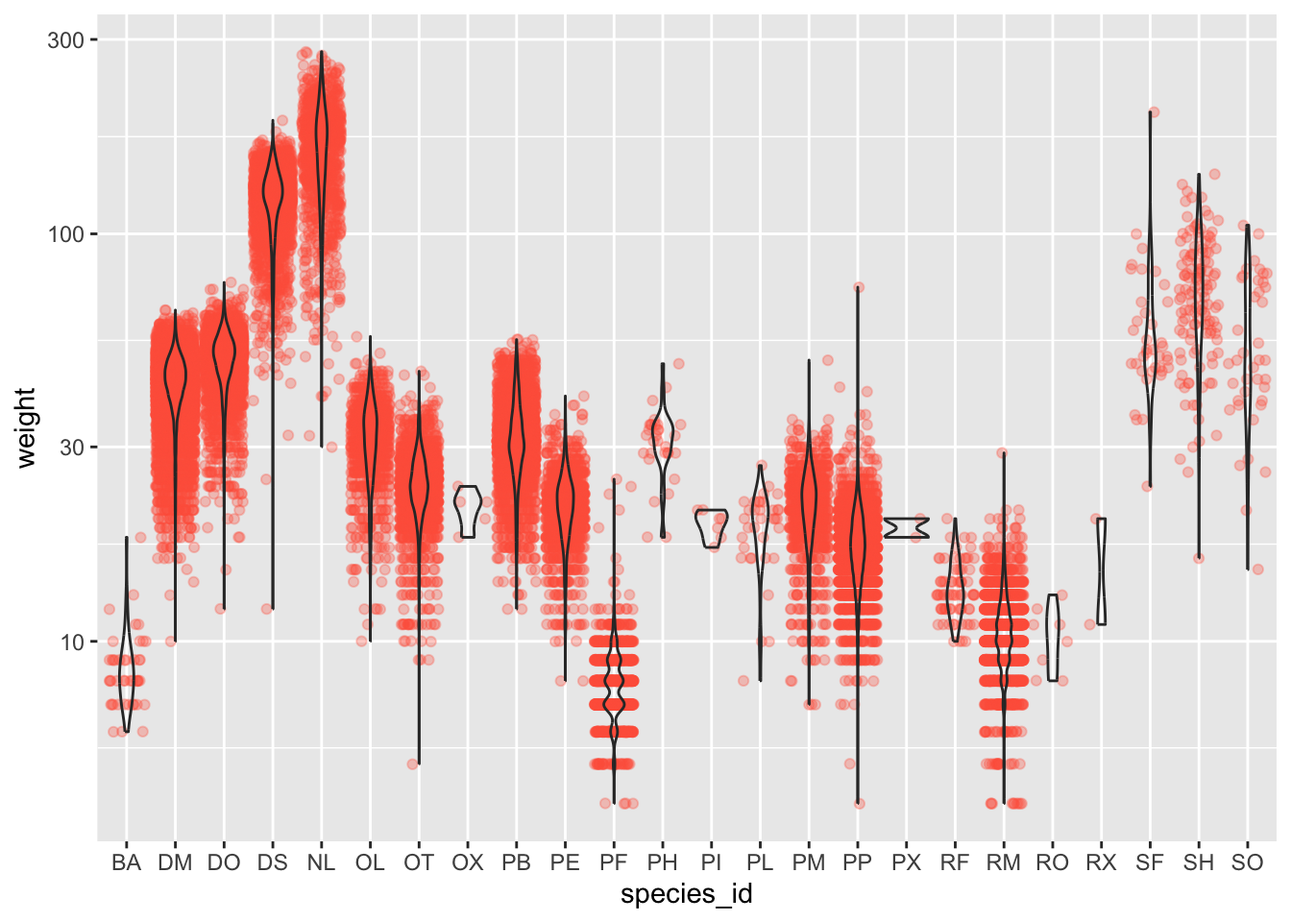
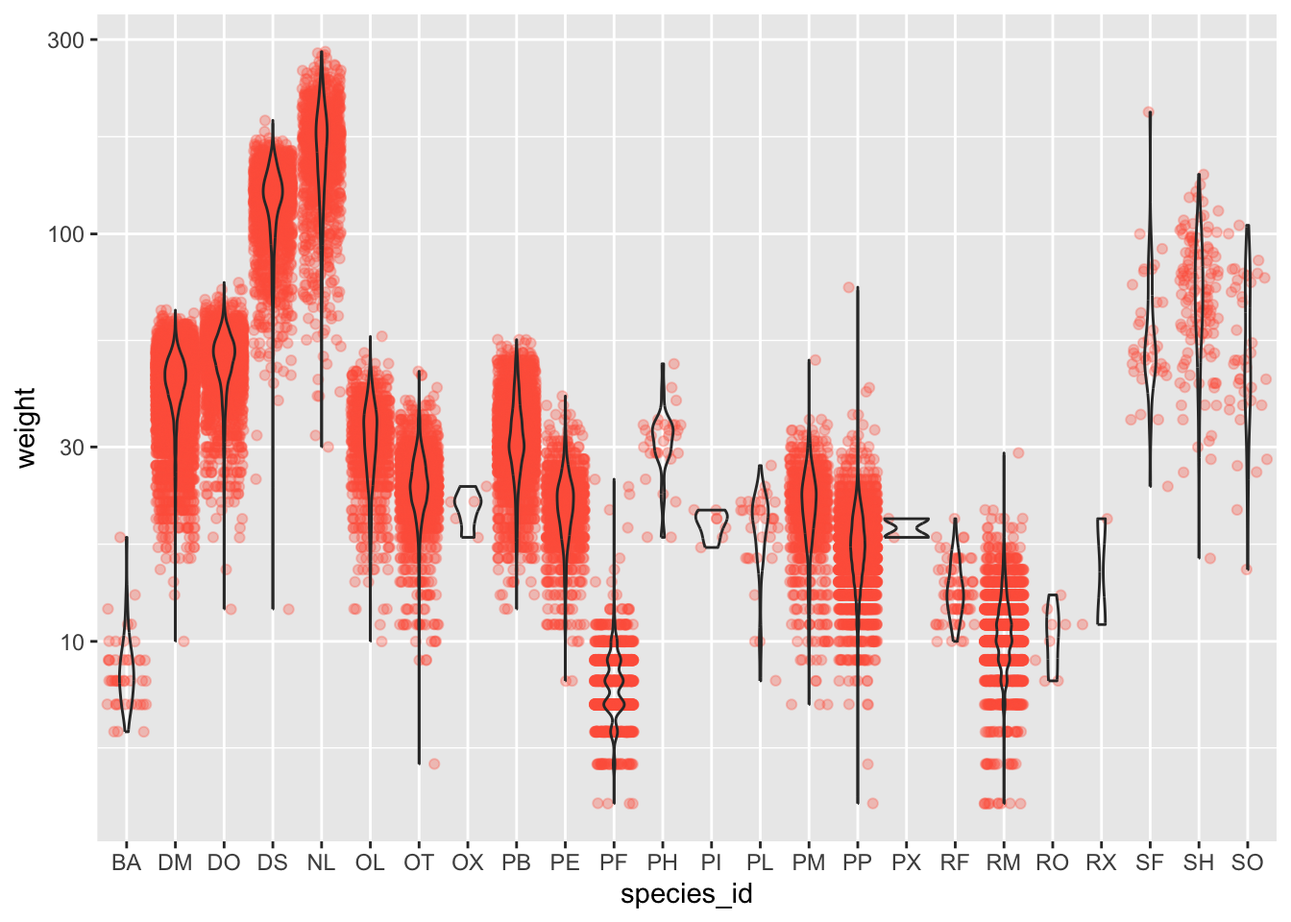
tyler wk7 videos

diff --git a/docs/lesson_wk07_data_visualization.html b/docs/lesson_wk07_data_visualization.html
@@ -475,10 +475,13 @@ ggplot.</li>
 <li><a
 href="https://video.ucdavis.edu/media/Week+7%3A+Data+Visualization+Part+1a/1_m55wx7pr">Data
 visualization Part 1a</a></li>
-<li>Data visualization Part 1b (coming soon)</li>
+<li><a
+href="https://video.ucdavis.edu/media/Week7_TimeSeries_and_Faceting/1_mcgh2gkw/390286133">Data
+visualization Part 1b</a></li>
 <li>Data visualization Part 2a (coming soon)</li>
-<li>Data visualization Part 2b (coming soon)</li>
-<li>Data visualization Part 2c (coming soon)</li>
+<li><a
+href="https://video.ucdavis.edu/media/Week7_Saving_and_NonVizViz/1_2fzv6mle/390286133">Data
+visualization Part 2b</a></li>
 <li><a
 href="https://canvas.ucdavis.edu/courses/1019595/assignments/1510681">Video
 Discussion</a></li>
@@ -862,7 +865,7 @@ surveys_complete %&gt;%
 ## 23 shown as vivid purplish red colour and 
 ## 24 shown as vivid purplish red colour.
 ## It has 2 layers.
-## Layer 1 is a set of 2514 big solid circle points of which about 39% can be seen.
+## Layer 1 is a set of 2514 big solid circle points of which about 40% can be seen.
 ## These are offset by added random noise, and sorted by as.factor(plot_id).
 ## Layer 1 has alpha set to 0.3.
 ## Layer 2 is a boxplot comprised of 2 vertical boxes with whiskers.
@@ -1913,8 +1916,8 @@ plot.iris &lt;- ggplot(data=iris, aes(x=Sepal.Length, y=Petal.Length, fill=Speci
   geom_point(size=3, alpha=0.7, shape=21)
 
 plotly::ggplotly(plot.iris) #it&#39;s as simple as that! </code></pre>
-<div class="plotly html-widget html-fill-item" id="htmlwidget-67e596250b2bb8a2549f" style="width:672px;height:480px;"></div>
-<script type="application/json" data-for="htmlwidget-67e596250b2bb8a2549f">{"x":{"data":[{"x":[5.0999999999999996,4.9000000000000004,4.7000000000000002,4.5999999999999996,5,5.4000000000000004,4.5999999999999996,5,4.4000000000000004,4.9000000000000004,5.4000000000000004,4.7999999999999998,4.7999999999999998,4.2999999999999998,5.7999999999999998,5.7000000000000002,5.4000000000000004,5.0999999999999996,5.7000000000000002,5.0999999999999996,5.4000000000000004,5.0999999999999996,4.5999999999999996,5.0999999999999996,4.7999999999999998,5,5,5.2000000000000002,5.2000000000000002,4.7000000000000002,4.7999999999999998,5.4000000000000004,5.2000000000000002,5.5,4.9000000000000004,5,5.5,4.9000000000000004,4.4000000000000004,5.0999999999999996,5,4.5,4.4000000000000004,5,5.0999999999999996,4.7999999999999998,5.0999999999999996,4.5999999999999996,5.2999999999999998,5],"y":[1.3999999999999999,1.3999999999999999,1.3,1.5,1.3999999999999999,1.7,1.3999999999999999,1.5,1.3999999999999999,1.5,1.5,1.6000000000000001,1.3999999999999999,1.1000000000000001,1.2,1.5,1.3,1.3999999999999999,1.7,1.5,1.7,1.5,1,1.7,1.8999999999999999,1.6000000000000001,1.6000000000000001,1.5,1.3999999999999999,1.6000000000000001,1.6000000000000001,1.5,1.5,1.3999999999999999,1.5,1.2,1.3,1.3999999999999999,1.3,1.5,1.3,1.3,1.3,1.6000000000000001,1.8999999999999999,1.3999999999999999,1.6000000000000001,1.3999999999999999,1.5,1.3999999999999999],"text":["Sepal.Length: 5.1<br />Petal.Length: 1.4<br />Species: setosa","Sepal.Length: 4.9<br />Petal.Length: 1.4<br />Species: setosa","Sepal.Length: 4.7<br />Petal.Length: 1.3<br />Species: setosa","Sepal.Length: 4.6<br />Petal.Length: 1.5<br />Species: setosa","Sepal.Length: 5.0<br />Petal.Length: 1.4<br />Species: setosa","Sepal.Length: 5.4<br />Petal.Length: 1.7<br />Species: setosa","Sepal.Length: 4.6<br />Petal.Length: 1.4<br />Species: setosa","Sepal.Length: 5.0<br />Petal.Length: 1.5<br />Species: setosa","Sepal.Length: 4.4<br />Petal.Length: 1.4<br />Species: setosa","Sepal.Length: 4.9<br />Petal.Length: 1.5<br />Species: setosa","Sepal.Length: 5.4<br />Petal.Length: 1.5<br />Species: setosa","Sepal.Length: 4.8<br />Petal.Length: 1.6<br />Species: setosa","Sepal.Length: 4.8<br />Petal.Length: 1.4<br />Species: setosa","Sepal.Length: 4.3<br />Petal.Length: 1.1<br />Species: setosa","Sepal.Length: 5.8<br />Petal.Length: 1.2<br />Species: setosa","Sepal.Length: 5.7<br />Petal.Length: 1.5<br />Species: setosa","Sepal.Length: 5.4<br />Petal.Length: 1.3<br />Species: setosa","Sepal.Length: 5.1<br />Petal.Length: 1.4<br />Species: setosa","Sepal.Length: 5.7<br />Petal.Length: 1.7<br />Species: setosa","Sepal.Length: 5.1<br />Petal.Length: 1.5<br />Species: setosa","Sepal.Length: 5.4<br />Petal.Length: 1.7<br />Species: setosa","Sepal.Length: 5.1<br />Petal.Length: 1.5<br />Species: setosa","Sepal.Length: 4.6<br />Petal.Length: 1.0<br />Species: setosa","Sepal.Length: 5.1<br />Petal.Length: 1.7<br />Species: setosa","Sepal.Length: 4.8<br />Petal.Length: 1.9<br />Species: setosa","Sepal.Length: 5.0<br />Petal.Length: 1.6<br />Species: setosa","Sepal.Length: 5.0<br />Petal.Length: 1.6<br />Species: setosa","Sepal.Length: 5.2<br />Petal.Length: 1.5<br />Species: setosa","Sepal.Length: 5.2<br />Petal.Length: 1.4<br />Species: setosa","Sepal.Length: 4.7<br />Petal.Length: 1.6<br />Species: setosa","Sepal.Length: 4.8<br />Petal.Length: 1.6<br />Species: setosa","Sepal.Length: 5.4<br />Petal.Length: 1.5<br />Species: setosa","Sepal.Length: 5.2<br />Petal.Length: 1.5<br />Species: setosa","Sepal.Length: 5.5<br />Petal.Length: 1.4<br />Species: setosa","Sepal.Length: 4.9<br />Petal.Length: 1.5<br />Species: setosa","Sepal.Length: 5.0<br />Petal.Length: 1.2<br />Species: setosa","Sepal.Length: 5.5<br />Petal.Length: 1.3<br />Species: setosa","Sepal.Length: 4.9<br />Petal.Length: 1.4<br />Species: setosa","Sepal.Length: 4.4<br />Petal.Length: 1.3<br />Species: setosa","Sepal.Length: 5.1<br />Petal.Length: 1.5<br />Species: setosa","Sepal.Length: 5.0<br />Petal.Length: 1.3<br />Species: setosa","Sepal.Length: 4.5<br />Petal.Length: 1.3<br />Species: setosa","Sepal.Length: 4.4<br />Petal.Length: 1.3<br />Species: setosa","Sepal.Length: 5.0<br />Petal.Length: 1.6<br />Species: setosa","Sepal.Length: 5.1<br />Petal.Length: 1.9<br />Species: setosa","Sepal.Length: 4.8<br />Petal.Length: 1.4<br />Species: setosa","Sepal.Length: 5.1<br />Petal.Length: 1.6<br />Species: setosa","Sepal.Length: 4.6<br />Petal.Length: 1.4<br />Species: setosa","Sepal.Length: 5.3<br />Petal.Length: 1.5<br />Species: setosa","Sepal.Length: 5.0<br />Petal.Length: 1.4<br />Species: setosa"],"type":"scatter","mode":"markers","marker":{"autocolorscale":false,"color":"rgba(248,118,109,1)","opacity":0.69999999999999996,"size":11.338582677165356,"symbol":"circle","line":{"width":1.8897637795275593,"color":"rgba(0,0,0,1)"}},"hoveron":"points","name":"setosa","legendgroup":"setosa","showlegend":true,"xaxis":"x","yaxis":"y","hoverinfo":"text","frame":null},{"x":[7,6.4000000000000004,6.9000000000000004,5.5,6.5,5.7000000000000002,6.2999999999999998,4.9000000000000004,6.5999999999999996,5.2000000000000002,5,5.9000000000000004,6,6.0999999999999996,5.5999999999999996,6.7000000000000002,5.5999999999999996,5.7999999999999998,6.2000000000000002,5.5999999999999996,5.9000000000000004,6.0999999999999996,6.2999999999999998,6.0999999999999996,6.4000000000000004,6.5999999999999996,6.7999999999999998,6.7000000000000002,6,5.7000000000000002,5.5,5.5,5.7999999999999998,6,5.4000000000000004,6,6.7000000000000002,6.2999999999999998,5.5999999999999996,5.5,5.5,6.0999999999999996,5.7999999999999998,5,5.5999999999999996,5.7000000000000002,5.7000000000000002,6.2000000000000002,5.0999999999999996,5.7000000000000002],"y":[4.7000000000000002,4.5,4.9000000000000004,4,4.5999999999999996,4.5,4.7000000000000002,3.2999999999999998,4.5999999999999996,3.8999999999999999,3.5,4.2000000000000002,4,4.7000000000000002,3.6000000000000001,4.4000000000000004,4.5,4.0999999999999996,4.5,3.8999999999999999,4.7999999999999998,4,4.9000000000000004,4.7000000000000002,4.2999999999999998,4.4000000000000004,4.7999999999999998,5,4.5,3.5,3.7999999999999998,3.7000000000000002,3.8999999999999999,5.0999999999999996,4.5,4.5,4.7000000000000002,4.4000000000000004,4.0999999999999996,4,4.4000000000000004,4.5999999999999996,4,3.2999999999999998,4.2000000000000002,4.2000000000000002,4.2000000000000002,4.2999999999999998,3,4.0999999999999996],"text":["Sepal.Length: 7.0<br />Petal.Length: 4.7<br />Species: versicolor","Sepal.Length: 6.4<br />Petal.Length: 4.5<br />Species: versicolor","Sepal.Length: 6.9<br />Petal.Length: 4.9<br />Species: versicolor","Sepal.Length: 5.5<br />Petal.Length: 4.0<br />Species: versicolor","Sepal.Length: 6.5<br />Petal.Length: 4.6<br />Species: versicolor","Sepal.Length: 5.7<br />Petal.Length: 4.5<br />Species: versicolor","Sepal.Length: 6.3<br />Petal.Length: 4.7<br />Species: versicolor","Sepal.Length: 4.9<br />Petal.Length: 3.3<br />Species: versicolor","Sepal.Length: 6.6<br />Petal.Length: 4.6<br />Species: versicolor","Sepal.Length: 5.2<br />Petal.Length: 3.9<br />Species: versicolor","Sepal.Length: 5.0<br />Petal.Length: 3.5<br />Species: versicolor","Sepal.Length: 5.9<br />Petal.Length: 4.2<br />Species: versicolor","Sepal.Length: 6.0<br />Petal.Length: 4.0<br />Species: versicolor","Sepal.Length: 6.1<br />Petal.Length: 4.7<br />Species: versicolor","Sepal.Length: 5.6<br />Petal.Length: 3.6<br />Species: versicolor","Sepal.Length: 6.7<br />Petal.Length: 4.4<br />Species: versicolor","Sepal.Length: 5.6<br />Petal.Length: 4.5<br />Species: versicolor","Sepal.Length: 5.8<br />Petal.Length: 4.1<br />Species: versicolor","Sepal.Length: 6.2<br />Petal.Length: 4.5<br />Species: versicolor","Sepal.Length: 5.6<br />Petal.Length: 3.9<br />Species: versicolor","Sepal.Length: 5.9<br />Petal.Length: 4.8<br />Species: versicolor","Sepal.Length: 6.1<br />Petal.Length: 4.0<br />Species: versicolor","Sepal.Length: 6.3<br />Petal.Length: 4.9<br />Species: versicolor","Sepal.Length: 6.1<br />Petal.Length: 4.7<br />Species: versicolor","Sepal.Length: 6.4<br />Petal.Length: 4.3<br />Species: versicolor","Sepal.Length: 6.6<br />Petal.Length: 4.4<br />Species: versicolor","Sepal.Length: 6.8<br />Petal.Length: 4.8<br />Species: versicolor","Sepal.Length: 6.7<br />Petal.Length: 5.0<br />Species: versicolor","Sepal.Length: 6.0<br />Petal.Length: 4.5<br />Species: versicolor","Sepal.Length: 5.7<br />Petal.Length: 3.5<br />Species: versicolor","Sepal.Length: 5.5<br />Petal.Length: 3.8<br />Species: versicolor","Sepal.Length: 5.5<br />Petal.Length: 3.7<br />Species: versicolor","Sepal.Length: 5.8<br />Petal.Length: 3.9<br />Species: versicolor","Sepal.Length: 6.0<br />Petal.Length: 5.1<br />Species: versicolor","Sepal.Length: 5.4<br />Petal.Length: 4.5<br />Species: versicolor","Sepal.Length: 6.0<br />Petal.Length: 4.5<br />Species: versicolor","Sepal.Length: 6.7<br />Petal.Length: 4.7<br />Species: versicolor","Sepal.Length: 6.3<br />Petal.Length: 4.4<br />Species: versicolor","Sepal.Length: 5.6<br />Petal.Length: 4.1<br />Species: versicolor","Sepal.Length: 5.5<br />Petal.Length: 4.0<br />Species: versicolor","Sepal.Length: 5.5<br />Petal.Length: 4.4<br />Species: versicolor","Sepal.Length: 6.1<br />Petal.Length: 4.6<br />Species: versicolor","Sepal.Length: 5.8<br />Petal.Length: 4.0<br />Species: versicolor","Sepal.Length: 5.0<br />Petal.Length: 3.3<br />Species: versicolor","Sepal.Length: 5.6<br />Petal.Length: 4.2<br />Species: versicolor","Sepal.Length: 5.7<br />Petal.Length: 4.2<br />Species: versicolor","Sepal.Length: 5.7<br />Petal.Length: 4.2<br />Species: versicolor","Sepal.Length: 6.2<br />Petal.Length: 4.3<br />Species: versicolor","Sepal.Length: 5.1<br />Petal.Length: 3.0<br />Species: versicolor","Sepal.Length: 5.7<br />Petal.Length: 4.1<br />Species: versicolor"],"type":"scatter","mode":"markers","marker":{"autocolorscale":false,"color":"rgba(0,186,56,1)","opacity":0.69999999999999996,"size":11.338582677165356,"symbol":"circle","line":{"width":1.8897637795275593,"color":"rgba(0,0,0,1)"}},"hoveron":"points","name":"versicolor","legendgroup":"versicolor","showlegend":true,"xaxis":"x","yaxis":"y","hoverinfo":"text","frame":null},{"x":[6.2999999999999998,5.7999999999999998,7.0999999999999996,6.2999999999999998,6.5,7.5999999999999996,4.9000000000000004,7.2999999999999998,6.7000000000000002,7.2000000000000002,6.5,6.4000000000000004,6.7999999999999998,5.7000000000000002,5.7999999999999998,6.4000000000000004,6.5,7.7000000000000002,7.7000000000000002,6,6.9000000000000004,5.5999999999999996,7.7000000000000002,6.2999999999999998,6.7000000000000002,7.2000000000000002,6.2000000000000002,6.0999999999999996,6.4000000000000004,7.2000000000000002,7.4000000000000004,7.9000000000000004,6.4000000000000004,6.2999999999999998,6.0999999999999996,7.7000000000000002,6.2999999999999998,6.4000000000000004,6,6.9000000000000004,6.7000000000000002,6.9000000000000004,5.7999999999999998,6.7999999999999998,6.7000000000000002,6.7000000000000002,6.2999999999999998,6.5,6.2000000000000002,5.9000000000000004],"y":[6,5.0999999999999996,5.9000000000000004,5.5999999999999996,5.7999999999999998,6.5999999999999996,4.5,6.2999999999999998,5.7999999999999998,6.0999999999999996,5.0999999999999996,5.2999999999999998,5.5,5,5.0999999999999996,5.2999999999999998,5.5,6.7000000000000002,6.9000000000000004,5,5.7000000000000002,4.9000000000000004,6.7000000000000002,4.9000000000000004,5.7000000000000002,6,4.7999999999999998,4.9000000000000004,5.5999999999999996,5.7999999999999998,6.0999999999999996,6.4000000000000004,5.5999999999999996,5.0999999999999996,5.5999999999999996,6.0999999999999996,5.5999999999999996,5.5,4.7999999999999998,5.4000000000000004,5.5999999999999996,5.0999999999999996,5.0999999999999996,5.9000000000000004,5.7000000000000002,5.2000000000000002,5,5.2000000000000002,5.4000000000000004,5.0999999999999996],"text":["Sepal.Length: 6.3<br />Petal.Length: 6.0<br />Species: virginica","Sepal.Length: 5.8<br />Petal.Length: 5.1<br />Species: virginica","Sepal.Length: 7.1<br />Petal.Length: 5.9<br />Species: virginica","Sepal.Length: 6.3<br />Petal.Length: 5.6<br />Species: virginica","Sepal.Length: 6.5<br />Petal.Length: 5.8<br />Species: virginica","Sepal.Length: 7.6<br />Petal.Length: 6.6<br />Species: virginica","Sepal.Length: 4.9<br />Petal.Length: 4.5<br />Species: virginica","Sepal.Length: 7.3<br />Petal.Length: 6.3<br />Species: virginica","Sepal.Length: 6.7<br />Petal.Length: 5.8<br />Species: virginica","Sepal.Length: 7.2<br />Petal.Length: 6.1<br />Species: virginica","Sepal.Length: 6.5<br />Petal.Length: 5.1<br />Species: virginica","Sepal.Length: 6.4<br />Petal.Length: 5.3<br />Species: virginica","Sepal.Length: 6.8<br />Petal.Length: 5.5<br />Species: virginica","Sepal.Length: 5.7<br />Petal.Length: 5.0<br />Species: virginica","Sepal.Length: 5.8<br />Petal.Length: 5.1<br />Species: virginica","Sepal.Length: 6.4<br />Petal.Length: 5.3<br />Species: virginica","Sepal.Length: 6.5<br />Petal.Length: 5.5<br />Species: virginica","Sepal.Length: 7.7<br />Petal.Length: 6.7<br />Species: virginica","Sepal.Length: 7.7<br />Petal.Length: 6.9<br />Species: virginica","Sepal.Length: 6.0<br />Petal.Length: 5.0<br />Species: virginica","Sepal.Length: 6.9<br />Petal.Length: 5.7<br />Species: virginica","Sepal.Length: 5.6<br />Petal.Length: 4.9<br />Species: virginica","Sepal.Length: 7.7<br />Petal.Length: 6.7<br />Species: virginica","Sepal.Length: 6.3<br />Petal.Length: 4.9<br />Species: virginica","Sepal.Length: 6.7<br />Petal.Length: 5.7<br />Species: virginica","Sepal.Length: 7.2<br />Petal.Length: 6.0<br />Species: virginica","Sepal.Length: 6.2<br />Petal.Length: 4.8<br />Species: virginica","Sepal.Length: 6.1<br />Petal.Length: 4.9<br />Species: virginica","Sepal.Length: 6.4<br />Petal.Length: 5.6<br />Species: virginica","Sepal.Length: 7.2<br />Petal.Length: 5.8<br />Species: virginica","Sepal.Length: 7.4<br />Petal.Length: 6.1<br />Species: virginica","Sepal.Length: 7.9<br />Petal.Length: 6.4<br />Species: virginica","Sepal.Length: 6.4<br />Petal.Length: 5.6<br />Species: virginica","Sepal.Length: 6.3<br />Petal.Length: 5.1<br />Species: virginica","Sepal.Length: 6.1<br />Petal.Length: 5.6<br />Species: virginica","Sepal.Length: 7.7<br />Petal.Length: 6.1<br />Species: virginica","Sepal.Length: 6.3<br />Petal.Length: 5.6<br />Species: virginica","Sepal.Length: 6.4<br />Petal.Length: 5.5<br />Species: virginica","Sepal.Length: 6.0<br />Petal.Length: 4.8<br />Species: virginica","Sepal.Length: 6.9<br />Petal.Length: 5.4<br />Species: virginica","Sepal.Length: 6.7<br />Petal.Length: 5.6<br />Species: virginica","Sepal.Length: 6.9<br />Petal.Length: 5.1<br />Species: virginica","Sepal.Length: 5.8<br />Petal.Length: 5.1<br />Species: virginica","Sepal.Length: 6.8<br />Petal.Length: 5.9<br />Species: virginica","Sepal.Length: 6.7<br />Petal.Length: 5.7<br />Species: virginica","Sepal.Length: 6.7<br />Petal.Length: 5.2<br />Species: virginica","Sepal.Length: 6.3<br />Petal.Length: 5.0<br />Species: virginica","Sepal.Length: 6.5<br />Petal.Length: 5.2<br />Species: virginica","Sepal.Length: 6.2<br />Petal.Length: 5.4<br />Species: virginica","Sepal.Length: 5.9<br />Petal.Length: 5.1<br />Species: virginica"],"type":"scatter","mode":"markers","marker":{"autocolorscale":false,"color":"rgba(97,156,255,1)","opacity":0.69999999999999996,"size":11.338582677165356,"symbol":"circle","line":{"width":1.8897637795275593,"color":"rgba(0,0,0,1)"}},"hoveron":"points","name":"virginica","legendgroup":"virginica","showlegend":true,"xaxis":"x","yaxis":"y","hoverinfo":"text","frame":null}],"layout":{"margin":{"t":26.228310502283108,"r":7.3059360730593621,"b":40.182648401826498,"l":31.415525114155255},"plot_bgcolor":"rgba(235,235,235,1)","paper_bgcolor":"rgba(255,255,255,1)","font":{"color":"rgba(0,0,0,1)","family":"","size":14.611872146118724},"xaxis":{"domain":[0,1],"automargin":true,"type":"linear","autorange":false,"range":[4.1200000000000001,8.0800000000000001],"tickmode":"array","ticktext":["5","6","7","8"],"tickvals":[5,6,7,8],"categoryorder":"array","categoryarray":["5","6","7","8"],"nticks":null,"ticks":"outside","tickcolor":"rgba(51,51,51,1)","ticklen":3.6529680365296811,"tickwidth":0.66417600664176002,"showticklabels":true,"tickfont":{"color":"rgba(77,77,77,1)","family":"","size":11.68949771689498},"tickangle":-0,"showline":false,"linecolor":null,"linewidth":0,"showgrid":true,"gridcolor":"rgba(255,255,255,1)","gridwidth":0.66417600664176002,"zeroline":false,"anchor":"y","title":{"text":"Sepal.Length","font":{"color":"rgba(0,0,0,1)","family":"","size":14.611872146118724}},"hoverformat":".2f"},"yaxis":{"domain":[0,1],"automargin":true,"type":"linear","autorange":false,"range":[0.70499999999999996,7.1950000000000003],"tickmode":"array","ticktext":["2","4","6"],"tickvals":[2,4,6],"categoryorder":"array","categoryarray":["2","4","6"],"nticks":null,"ticks":"outside","tickcolor":"rgba(51,51,51,1)","ticklen":3.6529680365296811,"tickwidth":0.66417600664176002,"showticklabels":true,"tickfont":{"color":"rgba(77,77,77,1)","family":"","size":11.68949771689498},"tickangle":-0,"showline":false,"linecolor":null,"linewidth":0,"showgrid":true,"gridcolor":"rgba(255,255,255,1)","gridwidth":0.66417600664176002,"zeroline":false,"anchor":"x","title":{"text":"Petal.Length","font":{"color":"rgba(0,0,0,1)","family":"","size":14.611872146118724}},"hoverformat":".2f"},"shapes":[{"type":"rect","fillcolor":null,"line":{"color":null,"width":0,"linetype":[]},"yref":"paper","xref":"paper","x0":0,"x1":1,"y0":0,"y1":1}],"showlegend":true,"legend":{"bgcolor":"rgba(255,255,255,1)","bordercolor":"transparent","borderwidth":1.8897637795275593,"font":{"color":"rgba(0,0,0,1)","family":"","size":11.68949771689498},"title":{"text":"Species","font":{"color":"rgba(0,0,0,1)","family":"","size":14.611872146118724}}},"hovermode":"closest","barmode":"relative"},"config":{"doubleClick":"reset","modeBarButtonsToAdd":["hoverclosest","hovercompare"],"showSendToCloud":false},"source":"A","attrs":{"9d47111301de":{"x":{},"y":{},"fill":{},"type":"scatter"}},"cur_data":"9d47111301de","visdat":{"9d47111301de":["function (y) ","x"]},"highlight":{"on":"plotly_click","persistent":false,"dynamic":false,"selectize":false,"opacityDim":0.20000000000000001,"selected":{"opacity":1},"debounce":0},"shinyEvents":["plotly_hover","plotly_click","plotly_selected","plotly_relayout","plotly_brushed","plotly_brushing","plotly_clickannotation","plotly_doubleclick","plotly_deselect","plotly_afterplot","plotly_sunburstclick"],"base_url":"https://plot.ly"},"evals":[],"jsHooks":[]}</script>
+<div class="plotly html-widget html-fill-item" id="htmlwidget-60eba412adf9b9525a60" style="width:672px;height:480px;"></div>
+<script type="application/json" data-for="htmlwidget-60eba412adf9b9525a60">{"x":{"data":[{"x":[5.0999999999999996,4.9000000000000004,4.7000000000000002,4.5999999999999996,5,5.4000000000000004,4.5999999999999996,5,4.4000000000000004,4.9000000000000004,5.4000000000000004,4.7999999999999998,4.7999999999999998,4.2999999999999998,5.7999999999999998,5.7000000000000002,5.4000000000000004,5.0999999999999996,5.7000000000000002,5.0999999999999996,5.4000000000000004,5.0999999999999996,4.5999999999999996,5.0999999999999996,4.7999999999999998,5,5,5.2000000000000002,5.2000000000000002,4.7000000000000002,4.7999999999999998,5.4000000000000004,5.2000000000000002,5.5,4.9000000000000004,5,5.5,4.9000000000000004,4.4000000000000004,5.0999999999999996,5,4.5,4.4000000000000004,5,5.0999999999999996,4.7999999999999998,5.0999999999999996,4.5999999999999996,5.2999999999999998,5],"y":[1.3999999999999999,1.3999999999999999,1.3,1.5,1.3999999999999999,1.7,1.3999999999999999,1.5,1.3999999999999999,1.5,1.5,1.6000000000000001,1.3999999999999999,1.1000000000000001,1.2,1.5,1.3,1.3999999999999999,1.7,1.5,1.7,1.5,1,1.7,1.8999999999999999,1.6000000000000001,1.6000000000000001,1.5,1.3999999999999999,1.6000000000000001,1.6000000000000001,1.5,1.5,1.3999999999999999,1.5,1.2,1.3,1.3999999999999999,1.3,1.5,1.3,1.3,1.3,1.6000000000000001,1.8999999999999999,1.3999999999999999,1.6000000000000001,1.3999999999999999,1.5,1.3999999999999999],"text":["Sepal.Length: 5.1<br />Petal.Length: 1.4<br />Species: setosa","Sepal.Length: 4.9<br />Petal.Length: 1.4<br />Species: setosa","Sepal.Length: 4.7<br />Petal.Length: 1.3<br />Species: setosa","Sepal.Length: 4.6<br />Petal.Length: 1.5<br />Species: setosa","Sepal.Length: 5.0<br />Petal.Length: 1.4<br />Species: setosa","Sepal.Length: 5.4<br />Petal.Length: 1.7<br />Species: setosa","Sepal.Length: 4.6<br />Petal.Length: 1.4<br />Species: setosa","Sepal.Length: 5.0<br />Petal.Length: 1.5<br />Species: setosa","Sepal.Length: 4.4<br />Petal.Length: 1.4<br />Species: setosa","Sepal.Length: 4.9<br />Petal.Length: 1.5<br />Species: setosa","Sepal.Length: 5.4<br />Petal.Length: 1.5<br />Species: setosa","Sepal.Length: 4.8<br />Petal.Length: 1.6<br />Species: setosa","Sepal.Length: 4.8<br />Petal.Length: 1.4<br />Species: setosa","Sepal.Length: 4.3<br />Petal.Length: 1.1<br />Species: setosa","Sepal.Length: 5.8<br />Petal.Length: 1.2<br />Species: setosa","Sepal.Length: 5.7<br />Petal.Length: 1.5<br />Species: setosa","Sepal.Length: 5.4<br />Petal.Length: 1.3<br />Species: setosa","Sepal.Length: 5.1<br />Petal.Length: 1.4<br />Species: setosa","Sepal.Length: 5.7<br />Petal.Length: 1.7<br />Species: setosa","Sepal.Length: 5.1<br />Petal.Length: 1.5<br />Species: setosa","Sepal.Length: 5.4<br />Petal.Length: 1.7<br />Species: setosa","Sepal.Length: 5.1<br />Petal.Length: 1.5<br />Species: setosa","Sepal.Length: 4.6<br />Petal.Length: 1.0<br />Species: setosa","Sepal.Length: 5.1<br />Petal.Length: 1.7<br />Species: setosa","Sepal.Length: 4.8<br />Petal.Length: 1.9<br />Species: setosa","Sepal.Length: 5.0<br />Petal.Length: 1.6<br />Species: setosa","Sepal.Length: 5.0<br />Petal.Length: 1.6<br />Species: setosa","Sepal.Length: 5.2<br />Petal.Length: 1.5<br />Species: setosa","Sepal.Length: 5.2<br />Petal.Length: 1.4<br />Species: setosa","Sepal.Length: 4.7<br />Petal.Length: 1.6<br />Species: setosa","Sepal.Length: 4.8<br />Petal.Length: 1.6<br />Species: setosa","Sepal.Length: 5.4<br />Petal.Length: 1.5<br />Species: setosa","Sepal.Length: 5.2<br />Petal.Length: 1.5<br />Species: setosa","Sepal.Length: 5.5<br />Petal.Length: 1.4<br />Species: setosa","Sepal.Length: 4.9<br />Petal.Length: 1.5<br />Species: setosa","Sepal.Length: 5.0<br />Petal.Length: 1.2<br />Species: setosa","Sepal.Length: 5.5<br />Petal.Length: 1.3<br />Species: setosa","Sepal.Length: 4.9<br />Petal.Length: 1.4<br />Species: setosa","Sepal.Length: 4.4<br />Petal.Length: 1.3<br />Species: setosa","Sepal.Length: 5.1<br />Petal.Length: 1.5<br />Species: setosa","Sepal.Length: 5.0<br />Petal.Length: 1.3<br />Species: setosa","Sepal.Length: 4.5<br />Petal.Length: 1.3<br />Species: setosa","Sepal.Length: 4.4<br />Petal.Length: 1.3<br />Species: setosa","Sepal.Length: 5.0<br />Petal.Length: 1.6<br />Species: setosa","Sepal.Length: 5.1<br />Petal.Length: 1.9<br />Species: setosa","Sepal.Length: 4.8<br />Petal.Length: 1.4<br />Species: setosa","Sepal.Length: 5.1<br />Petal.Length: 1.6<br />Species: setosa","Sepal.Length: 4.6<br />Petal.Length: 1.4<br />Species: setosa","Sepal.Length: 5.3<br />Petal.Length: 1.5<br />Species: setosa","Sepal.Length: 5.0<br />Petal.Length: 1.4<br />Species: setosa"],"type":"scatter","mode":"markers","marker":{"autocolorscale":false,"color":"rgba(248,118,109,1)","opacity":0.69999999999999996,"size":11.338582677165356,"symbol":"circle","line":{"width":1.8897637795275593,"color":"rgba(0,0,0,1)"}},"hoveron":"points","name":"setosa","legendgroup":"setosa","showlegend":true,"xaxis":"x","yaxis":"y","hoverinfo":"text","frame":null},{"x":[7,6.4000000000000004,6.9000000000000004,5.5,6.5,5.7000000000000002,6.2999999999999998,4.9000000000000004,6.5999999999999996,5.2000000000000002,5,5.9000000000000004,6,6.0999999999999996,5.5999999999999996,6.7000000000000002,5.5999999999999996,5.7999999999999998,6.2000000000000002,5.5999999999999996,5.9000000000000004,6.0999999999999996,6.2999999999999998,6.0999999999999996,6.4000000000000004,6.5999999999999996,6.7999999999999998,6.7000000000000002,6,5.7000000000000002,5.5,5.5,5.7999999999999998,6,5.4000000000000004,6,6.7000000000000002,6.2999999999999998,5.5999999999999996,5.5,5.5,6.0999999999999996,5.7999999999999998,5,5.5999999999999996,5.7000000000000002,5.7000000000000002,6.2000000000000002,5.0999999999999996,5.7000000000000002],"y":[4.7000000000000002,4.5,4.9000000000000004,4,4.5999999999999996,4.5,4.7000000000000002,3.2999999999999998,4.5999999999999996,3.8999999999999999,3.5,4.2000000000000002,4,4.7000000000000002,3.6000000000000001,4.4000000000000004,4.5,4.0999999999999996,4.5,3.8999999999999999,4.7999999999999998,4,4.9000000000000004,4.7000000000000002,4.2999999999999998,4.4000000000000004,4.7999999999999998,5,4.5,3.5,3.7999999999999998,3.7000000000000002,3.8999999999999999,5.0999999999999996,4.5,4.5,4.7000000000000002,4.4000000000000004,4.0999999999999996,4,4.4000000000000004,4.5999999999999996,4,3.2999999999999998,4.2000000000000002,4.2000000000000002,4.2000000000000002,4.2999999999999998,3,4.0999999999999996],"text":["Sepal.Length: 7.0<br />Petal.Length: 4.7<br />Species: versicolor","Sepal.Length: 6.4<br />Petal.Length: 4.5<br />Species: versicolor","Sepal.Length: 6.9<br />Petal.Length: 4.9<br />Species: versicolor","Sepal.Length: 5.5<br />Petal.Length: 4.0<br />Species: versicolor","Sepal.Length: 6.5<br />Petal.Length: 4.6<br />Species: versicolor","Sepal.Length: 5.7<br />Petal.Length: 4.5<br />Species: versicolor","Sepal.Length: 6.3<br />Petal.Length: 4.7<br />Species: versicolor","Sepal.Length: 4.9<br />Petal.Length: 3.3<br />Species: versicolor","Sepal.Length: 6.6<br />Petal.Length: 4.6<br />Species: versicolor","Sepal.Length: 5.2<br />Petal.Length: 3.9<br />Species: versicolor","Sepal.Length: 5.0<br />Petal.Length: 3.5<br />Species: versicolor","Sepal.Length: 5.9<br />Petal.Length: 4.2<br />Species: versicolor","Sepal.Length: 6.0<br />Petal.Length: 4.0<br />Species: versicolor","Sepal.Length: 6.1<br />Petal.Length: 4.7<br />Species: versicolor","Sepal.Length: 5.6<br />Petal.Length: 3.6<br />Species: versicolor","Sepal.Length: 6.7<br />Petal.Length: 4.4<br />Species: versicolor","Sepal.Length: 5.6<br />Petal.Length: 4.5<br />Species: versicolor","Sepal.Length: 5.8<br />Petal.Length: 4.1<br />Species: versicolor","Sepal.Length: 6.2<br />Petal.Length: 4.5<br />Species: versicolor","Sepal.Length: 5.6<br />Petal.Length: 3.9<br />Species: versicolor","Sepal.Length: 5.9<br />Petal.Length: 4.8<br />Species: versicolor","Sepal.Length: 6.1<br />Petal.Length: 4.0<br />Species: versicolor","Sepal.Length: 6.3<br />Petal.Length: 4.9<br />Species: versicolor","Sepal.Length: 6.1<br />Petal.Length: 4.7<br />Species: versicolor","Sepal.Length: 6.4<br />Petal.Length: 4.3<br />Species: versicolor","Sepal.Length: 6.6<br />Petal.Length: 4.4<br />Species: versicolor","Sepal.Length: 6.8<br />Petal.Length: 4.8<br />Species: versicolor","Sepal.Length: 6.7<br />Petal.Length: 5.0<br />Species: versicolor","Sepal.Length: 6.0<br />Petal.Length: 4.5<br />Species: versicolor","Sepal.Length: 5.7<br />Petal.Length: 3.5<br />Species: versicolor","Sepal.Length: 5.5<br />Petal.Length: 3.8<br />Species: versicolor","Sepal.Length: 5.5<br />Petal.Length: 3.7<br />Species: versicolor","Sepal.Length: 5.8<br />Petal.Length: 3.9<br />Species: versicolor","Sepal.Length: 6.0<br />Petal.Length: 5.1<br />Species: versicolor","Sepal.Length: 5.4<br />Petal.Length: 4.5<br />Species: versicolor","Sepal.Length: 6.0<br />Petal.Length: 4.5<br />Species: versicolor","Sepal.Length: 6.7<br />Petal.Length: 4.7<br />Species: versicolor","Sepal.Length: 6.3<br />Petal.Length: 4.4<br />Species: versicolor","Sepal.Length: 5.6<br />Petal.Length: 4.1<br />Species: versicolor","Sepal.Length: 5.5<br />Petal.Length: 4.0<br />Species: versicolor","Sepal.Length: 5.5<br />Petal.Length: 4.4<br />Species: versicolor","Sepal.Length: 6.1<br />Petal.Length: 4.6<br />Species: versicolor","Sepal.Length: 5.8<br />Petal.Length: 4.0<br />Species: versicolor","Sepal.Length: 5.0<br />Petal.Length: 3.3<br />Species: versicolor","Sepal.Length: 5.6<br />Petal.Length: 4.2<br />Species: versicolor","Sepal.Length: 5.7<br />Petal.Length: 4.2<br />Species: versicolor","Sepal.Length: 5.7<br />Petal.Length: 4.2<br />Species: versicolor","Sepal.Length: 6.2<br />Petal.Length: 4.3<br />Species: versicolor","Sepal.Length: 5.1<br />Petal.Length: 3.0<br />Species: versicolor","Sepal.Length: 5.7<br />Petal.Length: 4.1<br />Species: versicolor"],"type":"scatter","mode":"markers","marker":{"autocolorscale":false,"color":"rgba(0,186,56,1)","opacity":0.69999999999999996,"size":11.338582677165356,"symbol":"circle","line":{"width":1.8897637795275593,"color":"rgba(0,0,0,1)"}},"hoveron":"points","name":"versicolor","legendgroup":"versicolor","showlegend":true,"xaxis":"x","yaxis":"y","hoverinfo":"text","frame":null},{"x":[6.2999999999999998,5.7999999999999998,7.0999999999999996,6.2999999999999998,6.5,7.5999999999999996,4.9000000000000004,7.2999999999999998,6.7000000000000002,7.2000000000000002,6.5,6.4000000000000004,6.7999999999999998,5.7000000000000002,5.7999999999999998,6.4000000000000004,6.5,7.7000000000000002,7.7000000000000002,6,6.9000000000000004,5.5999999999999996,7.7000000000000002,6.2999999999999998,6.7000000000000002,7.2000000000000002,6.2000000000000002,6.0999999999999996,6.4000000000000004,7.2000000000000002,7.4000000000000004,7.9000000000000004,6.4000000000000004,6.2999999999999998,6.0999999999999996,7.7000000000000002,6.2999999999999998,6.4000000000000004,6,6.9000000000000004,6.7000000000000002,6.9000000000000004,5.7999999999999998,6.7999999999999998,6.7000000000000002,6.7000000000000002,6.2999999999999998,6.5,6.2000000000000002,5.9000000000000004],"y":[6,5.0999999999999996,5.9000000000000004,5.5999999999999996,5.7999999999999998,6.5999999999999996,4.5,6.2999999999999998,5.7999999999999998,6.0999999999999996,5.0999999999999996,5.2999999999999998,5.5,5,5.0999999999999996,5.2999999999999998,5.5,6.7000000000000002,6.9000000000000004,5,5.7000000000000002,4.9000000000000004,6.7000000000000002,4.9000000000000004,5.7000000000000002,6,4.7999999999999998,4.9000000000000004,5.5999999999999996,5.7999999999999998,6.0999999999999996,6.4000000000000004,5.5999999999999996,5.0999999999999996,5.5999999999999996,6.0999999999999996,5.5999999999999996,5.5,4.7999999999999998,5.4000000000000004,5.5999999999999996,5.0999999999999996,5.0999999999999996,5.9000000000000004,5.7000000000000002,5.2000000000000002,5,5.2000000000000002,5.4000000000000004,5.0999999999999996],"text":["Sepal.Length: 6.3<br />Petal.Length: 6.0<br />Species: virginica","Sepal.Length: 5.8<br />Petal.Length: 5.1<br />Species: virginica","Sepal.Length: 7.1<br />Petal.Length: 5.9<br />Species: virginica","Sepal.Length: 6.3<br />Petal.Length: 5.6<br />Species: virginica","Sepal.Length: 6.5<br />Petal.Length: 5.8<br />Species: virginica","Sepal.Length: 7.6<br />Petal.Length: 6.6<br />Species: virginica","Sepal.Length: 4.9<br />Petal.Length: 4.5<br />Species: virginica","Sepal.Length: 7.3<br />Petal.Length: 6.3<br />Species: virginica","Sepal.Length: 6.7<br />Petal.Length: 5.8<br />Species: virginica","Sepal.Length: 7.2<br />Petal.Length: 6.1<br />Species: virginica","Sepal.Length: 6.5<br />Petal.Length: 5.1<br />Species: virginica","Sepal.Length: 6.4<br />Petal.Length: 5.3<br />Species: virginica","Sepal.Length: 6.8<br />Petal.Length: 5.5<br />Species: virginica","Sepal.Length: 5.7<br />Petal.Length: 5.0<br />Species: virginica","Sepal.Length: 5.8<br />Petal.Length: 5.1<br />Species: virginica","Sepal.Length: 6.4<br />Petal.Length: 5.3<br />Species: virginica","Sepal.Length: 6.5<br />Petal.Length: 5.5<br />Species: virginica","Sepal.Length: 7.7<br />Petal.Length: 6.7<br />Species: virginica","Sepal.Length: 7.7<br />Petal.Length: 6.9<br />Species: virginica","Sepal.Length: 6.0<br />Petal.Length: 5.0<br />Species: virginica","Sepal.Length: 6.9<br />Petal.Length: 5.7<br />Species: virginica","Sepal.Length: 5.6<br />Petal.Length: 4.9<br />Species: virginica","Sepal.Length: 7.7<br />Petal.Length: 6.7<br />Species: virginica","Sepal.Length: 6.3<br />Petal.Length: 4.9<br />Species: virginica","Sepal.Length: 6.7<br />Petal.Length: 5.7<br />Species: virginica","Sepal.Length: 7.2<br />Petal.Length: 6.0<br />Species: virginica","Sepal.Length: 6.2<br />Petal.Length: 4.8<br />Species: virginica","Sepal.Length: 6.1<br />Petal.Length: 4.9<br />Species: virginica","Sepal.Length: 6.4<br />Petal.Length: 5.6<br />Species: virginica","Sepal.Length: 7.2<br />Petal.Length: 5.8<br />Species: virginica","Sepal.Length: 7.4<br />Petal.Length: 6.1<br />Species: virginica","Sepal.Length: 7.9<br />Petal.Length: 6.4<br />Species: virginica","Sepal.Length: 6.4<br />Petal.Length: 5.6<br />Species: virginica","Sepal.Length: 6.3<br />Petal.Length: 5.1<br />Species: virginica","Sepal.Length: 6.1<br />Petal.Length: 5.6<br />Species: virginica","Sepal.Length: 7.7<br />Petal.Length: 6.1<br />Species: virginica","Sepal.Length: 6.3<br />Petal.Length: 5.6<br />Species: virginica","Sepal.Length: 6.4<br />Petal.Length: 5.5<br />Species: virginica","Sepal.Length: 6.0<br />Petal.Length: 4.8<br />Species: virginica","Sepal.Length: 6.9<br />Petal.Length: 5.4<br />Species: virginica","Sepal.Length: 6.7<br />Petal.Length: 5.6<br />Species: virginica","Sepal.Length: 6.9<br />Petal.Length: 5.1<br />Species: virginica","Sepal.Length: 5.8<br />Petal.Length: 5.1<br />Species: virginica","Sepal.Length: 6.8<br />Petal.Length: 5.9<br />Species: virginica","Sepal.Length: 6.7<br />Petal.Length: 5.7<br />Species: virginica","Sepal.Length: 6.7<br />Petal.Length: 5.2<br />Species: virginica","Sepal.Length: 6.3<br />Petal.Length: 5.0<br />Species: virginica","Sepal.Length: 6.5<br />Petal.Length: 5.2<br />Species: virginica","Sepal.Length: 6.2<br />Petal.Length: 5.4<br />Species: virginica","Sepal.Length: 5.9<br />Petal.Length: 5.1<br />Species: virginica"],"type":"scatter","mode":"markers","marker":{"autocolorscale":false,"color":"rgba(97,156,255,1)","opacity":0.69999999999999996,"size":11.338582677165356,"symbol":"circle","line":{"width":1.8897637795275593,"color":"rgba(0,0,0,1)"}},"hoveron":"points","name":"virginica","legendgroup":"virginica","showlegend":true,"xaxis":"x","yaxis":"y","hoverinfo":"text","frame":null}],"layout":{"margin":{"t":26.228310502283108,"r":7.3059360730593621,"b":40.182648401826498,"l":31.415525114155255},"plot_bgcolor":"rgba(235,235,235,1)","paper_bgcolor":"rgba(255,255,255,1)","font":{"color":"rgba(0,0,0,1)","family":"","size":14.611872146118724},"xaxis":{"domain":[0,1],"automargin":true,"type":"linear","autorange":false,"range":[4.1200000000000001,8.0800000000000001],"tickmode":"array","ticktext":["5","6","7","8"],"tickvals":[5,6,7,8],"categoryorder":"array","categoryarray":["5","6","7","8"],"nticks":null,"ticks":"outside","tickcolor":"rgba(51,51,51,1)","ticklen":3.6529680365296811,"tickwidth":0.66417600664176002,"showticklabels":true,"tickfont":{"color":"rgba(77,77,77,1)","family":"","size":11.68949771689498},"tickangle":-0,"showline":false,"linecolor":null,"linewidth":0,"showgrid":true,"gridcolor":"rgba(255,255,255,1)","gridwidth":0.66417600664176002,"zeroline":false,"anchor":"y","title":{"text":"Sepal.Length","font":{"color":"rgba(0,0,0,1)","family":"","size":14.611872146118724}},"hoverformat":".2f"},"yaxis":{"domain":[0,1],"automargin":true,"type":"linear","autorange":false,"range":[0.70499999999999996,7.1950000000000003],"tickmode":"array","ticktext":["2","4","6"],"tickvals":[2,4,6],"categoryorder":"array","categoryarray":["2","4","6"],"nticks":null,"ticks":"outside","tickcolor":"rgba(51,51,51,1)","ticklen":3.6529680365296811,"tickwidth":0.66417600664176002,"showticklabels":true,"tickfont":{"color":"rgba(77,77,77,1)","family":"","size":11.68949771689498},"tickangle":-0,"showline":false,"linecolor":null,"linewidth":0,"showgrid":true,"gridcolor":"rgba(255,255,255,1)","gridwidth":0.66417600664176002,"zeroline":false,"anchor":"x","title":{"text":"Petal.Length","font":{"color":"rgba(0,0,0,1)","family":"","size":14.611872146118724}},"hoverformat":".2f"},"shapes":[{"type":"rect","fillcolor":null,"line":{"color":null,"width":0,"linetype":[]},"yref":"paper","xref":"paper","x0":0,"x1":1,"y0":0,"y1":1}],"showlegend":true,"legend":{"bgcolor":"rgba(255,255,255,1)","bordercolor":"transparent","borderwidth":1.8897637795275593,"font":{"color":"rgba(0,0,0,1)","family":"","size":11.68949771689498},"title":{"text":"Species","font":{"color":"rgba(0,0,0,1)","family":"","size":14.611872146118724}}},"hovermode":"closest","barmode":"relative"},"config":{"doubleClick":"reset","modeBarButtonsToAdd":["hoverclosest","hovercompare"],"showSendToCloud":false},"source":"A","attrs":{"a6944a7a99ba":{"x":{},"y":{},"fill":{},"type":"scatter"}},"cur_data":"a6944a7a99ba","visdat":{"a6944a7a99ba":["function (y) ","x"]},"highlight":{"on":"plotly_click","persistent":false,"dynamic":false,"selectize":false,"opacityDim":0.20000000000000001,"selected":{"opacity":1},"debounce":0},"shinyEvents":["plotly_hover","plotly_click","plotly_selected","plotly_relayout","plotly_brushed","plotly_brushing","plotly_clickannotation","plotly_doubleclick","plotly_deselect","plotly_afterplot","plotly_sunburstclick"],"base_url":"https://plot.ly"},"evals":[],"jsHooks":[]}</script>
 <p>This lesson was contributed by <a
 href="https://github.com/MarthaWohlfeil">Martha Zillig</a>.</p>
 <p>This lesson is adapted from the Software Carpentry: R for
